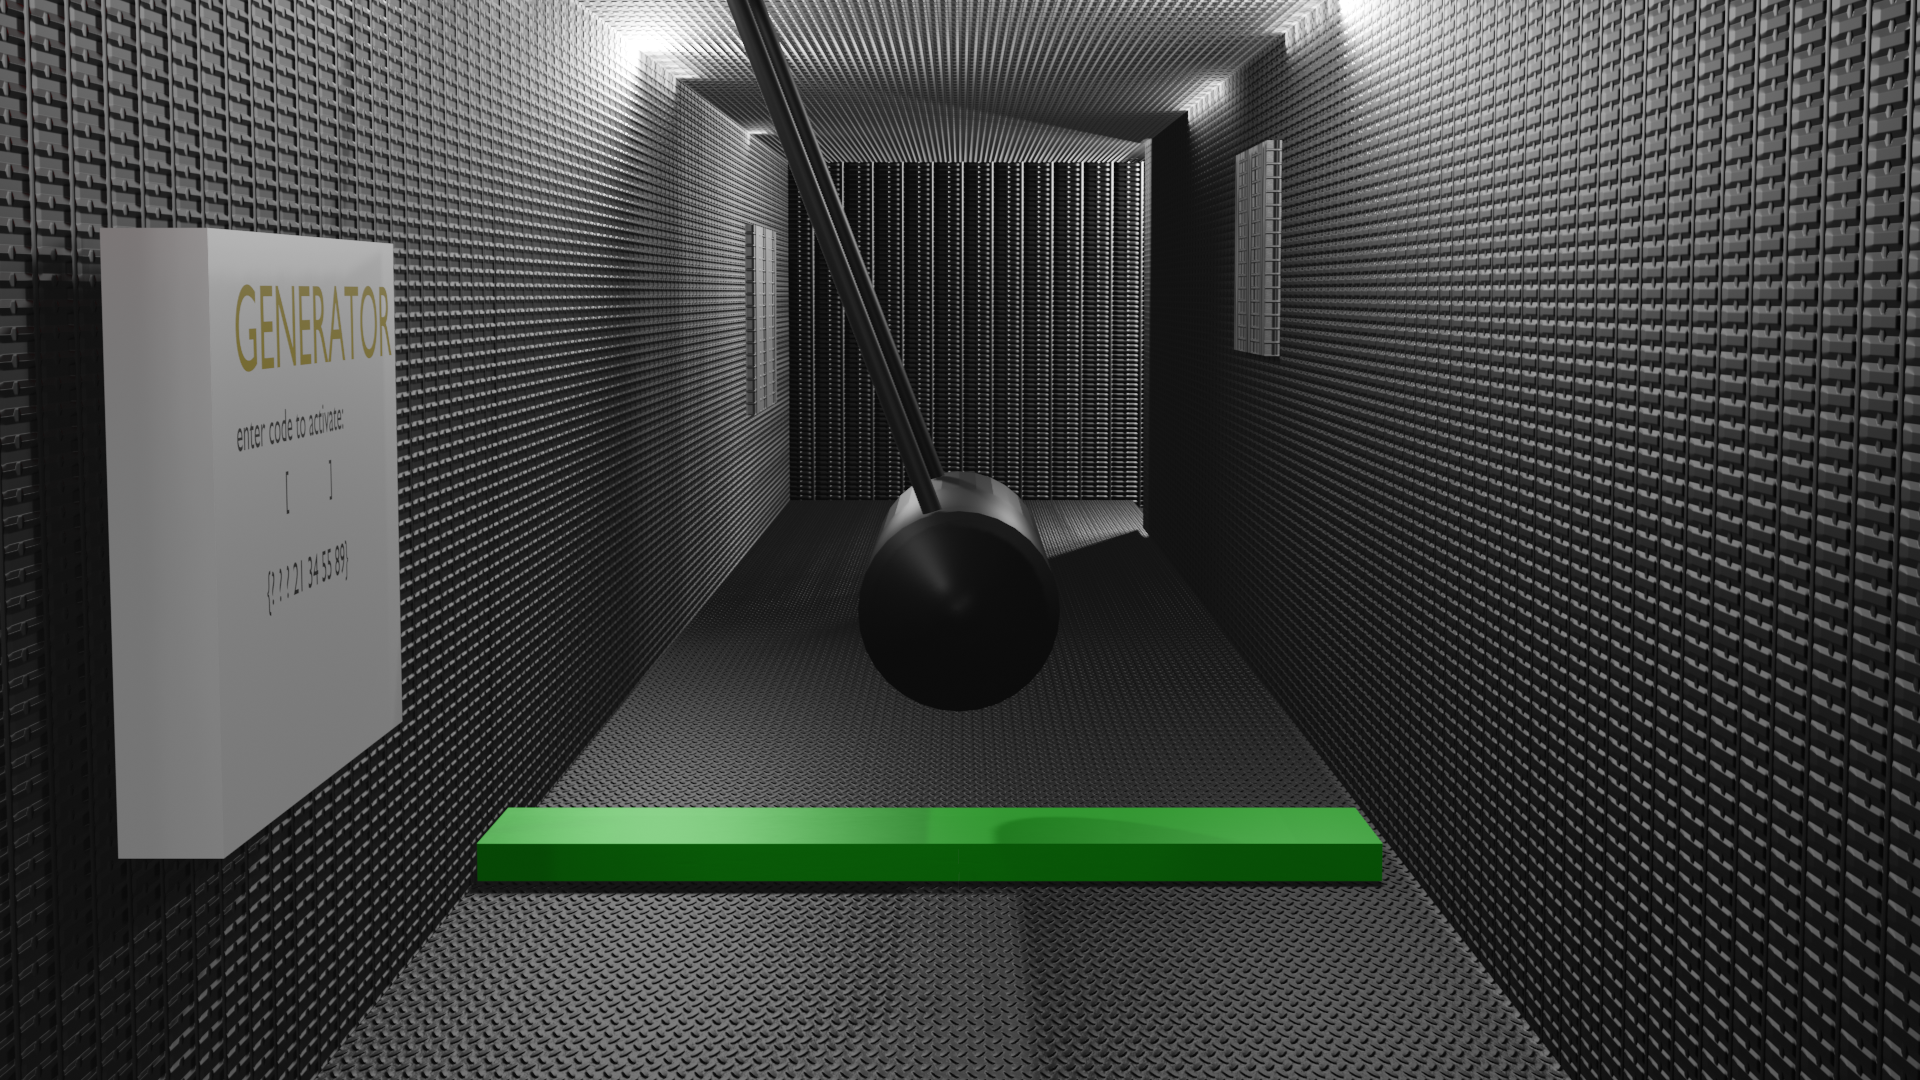
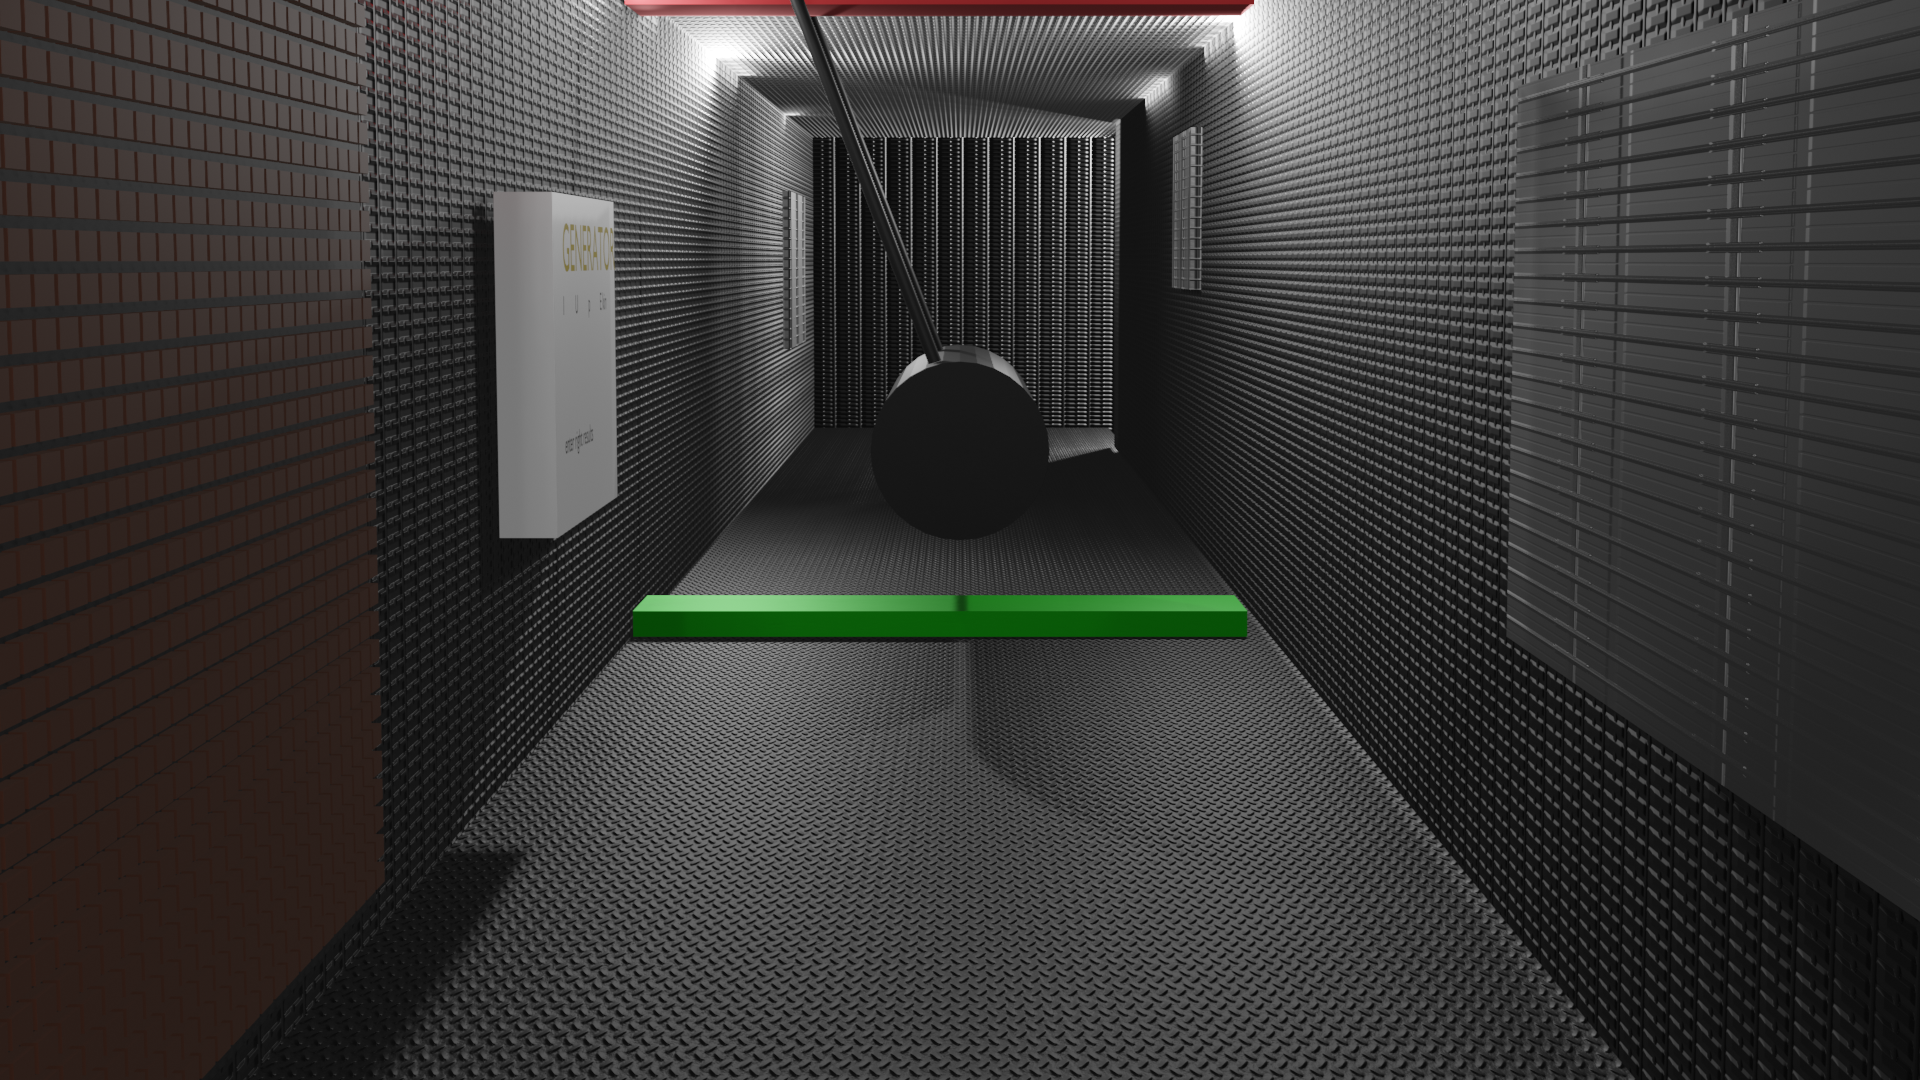
update images

diff --git a/index.js b/index.js
@@ -1,6 +1,6 @@
 // Constants
 
-let blinkTime = 5;
+let blinkTime = 1;
 
 let infoText = {
     cockpit: "Ihr befindet euch im Cockpit von Ikarus. Schaut euch um und findet das Benutzerhandbuch.",
@@ -13,6 +13,7 @@ let infoText = {
     gangBottle: "Oh Nein! Die Sauerstoffzufuhr im Raumschiff ist ausgefallen!",
     gangBottleClose: "Lest das Benutzerhandbuch und clickt auf die Sauerstoffflasche wenn ihr bereit seid. In der Flasche befindet sich zu Anfang 14 Bar an Sauerstoff. Ihr könnt 1 bis 3 Bar entlassen.",
     gangKiste: "Ihr habt nun wieder genug Sauerstoff zum Atmen und die Systeme sind auch wieder online. Ihr führt euren Weg fort, doch was ist das? Eine weitere Blockade versperrt euch den Weg. Dieses Mal handelt es sich um eine achtlos liegen gelasssene Kiste, die jedoch zu schwer ist, um bewegt zu werden. Gebt an wie viel Kraft ihr auf die Kiste ausüben könnt",
+    gangKisteWeg: "Die Kiste bewegt sich aus dem Weg",
     gangEngine: "Ihr habt überlebt! Repariert jetzt den Antrieb!",
     engine: "Sucht euch nach einem Schaltpanel um.",
     engineDetail: "Ihr seid am Schaltpanel. Gebt die richtige Spannung und Stromstärke an",
@@ -20,7 +21,7 @@ let infoText = {
     computer: "Ihr befindet euch jetzt im Computerraum. Gebt die richtigen Koordinaten ein. Ihr habt 3 Versuche."
 }
 
-let tippTimes = { cockpit: 2, cockpitPanel: 2, cockpitComputer: 2, cockpitDoor: 2, gangSchaukel: 2, gangGenerator: 2, gangEcke: 2, gangBottle: 2, gangBottleClose: 2, gangKiste: 2, gangEngine: 2, engine: 2, engineDetail: 2, engineThrust: 2, engineProblem: 2, engineGang: 2, computer: 2 }
+let tippTimes = { cockpit: 2, cockpitPanel: 2, cockpitComputer: 2, cockpitDoor: 2, gangSchaukel: 2, gangGenerator: 2, gangEcke: 2, gangBottle: 2, gangBottleClose: 2, gangKiste: 2, gangKisteWeg: 2, gangEngine: 2, engine: 2, engineDetail: 2, engineThrust: 2, engineProblem: 2, engineGang: 2, computer: 2 }
 
 let tipp = {
     cockpit: "Klickt auf den blinkenden Pfeil.",
@@ -34,6 +35,7 @@ let tipp = {
     gangBottleClose: "Enlasst beim ersten mal 1 Bar Sauerstoff.",
     gangKiste: "Tipp hier einfügen.",
     gangEngine: "Kickt auf die blinkende Tür.",
+    gangKisteWeg: "Klickt auf den blinkenden Pfeil.",
     engine: "Klickt auf das blinkende Panel.",
     engineDetail: "Tipp hier einfügen.",
     engineThrust: "Bewegt den Mauszeiger über den Schubhebel.",
@@ -107,7 +109,7 @@ function setCockpit() {
 function setCockpitPanel() {
     newScene("cockpitPanel");
 
-    setImage("cockpitPanelComputer", 7, 11, 50);
+    setImage("cockpitPanelComputer", 6, 10, 51.5);
     setClick("cockpitPanelComputer", setCockpitComputer);
 
     setBlink("cockpitPanelComputer");
@@ -116,10 +118,13 @@ function setCockpitPanel() {
 function setCockpitComputer() {
     newScene("cockpitComputer");
 
-    for (i = 1; i <= 3; i++) {
-        setImage("rc/b" + i, 6, 55, 11 * i);
-        setImage("rc/y" + i, 6, 48, 11 * i);
-    }
+    setImage("rc/b1", 6, 53, 12);
+    setImage("rc/b2", 6, 53, 25);
+    setImage("rc/y1", 6, 53, 38);
+
+    setImage("rc/y2", 6, 28, 46);
+    setImage("rc/b3", 6, 36, 46);
+    setImage("rc/y3", 6, 44, 46);
 
     setInput("cockpitComputerInput", 10, 3, 33, 16);
     setText("cockpitComputerText", "Enter Password", 10, 3, 33, 13);
@@ -132,7 +137,7 @@ function setCockpitDoor() {
 
     newScene("cockpitDoor");
 
-    setImage("cockpitDoorDoor", 15, 48, 11);
+    setImage("cockpitDoorDoor", 11, 53.5, 11);
     setClick("cockpitDoorDoor", setGangSchaukel);
 
     setBlink("cockpitDoorDoor");
@@ -141,7 +146,7 @@ function setCockpitDoor() {
 function setGangSchaukel() {
     newScene("gangSchaukel");
 
-    setImage("gangSchaukelGenerator", 17, 5, 20);
+    setImage("gangSchaukelGenerator", 6.3, 25.8, 17.8);
     setClick("gangSchaukelGenerator", setGangGenerator);
 
     setBlink("gangSchaukelGenerator");
@@ -152,9 +157,22 @@ function setGangSchaukel() {
 function setGangGenerator() {
     newScene("gangGenerator");
 
-    setInput("gangGeneratorInput", 20, 8, 31, 41);
+    setInput("gangGeneratorInputI", 5, 8, 31, 41);
+    setInput("gangGeneratorInputU", 5, 8, 37, 41);
+    setInput("gangGeneratorInputP", 5, 8, 43, 41);
+    setInput("gangGeneratorInputE", 5, 8, 49, 41);
 
-    setChange("gangGeneratorInput", checkGenerator);
+    setChange("gangGeneratorInputI", checkGenerator);
+    setChange("gangGeneratorInputU", checkGenerator);
+    setChange("gangGeneratorInputP", checkGenerator);
+    setChange("gangGeneratorInputE", checkGenerator);
+}
+
+function setGangSchaukelWeg() {
+    newScene("gangSchaukelWeg");
+
+    setImage("arrow", 7, 45, 60);
+    setClick("arrow", setGangEcke);
 }
 
 function setGangEcke() {
@@ -169,7 +187,7 @@ function setGangEcke() {
 function setGangBottle() {
     newScene("gangBottle");
 
-    setImage("gangBottleBottle", 7, 72, 36);
+    setImage("gangBottleBottle", 9.5, 66.2, 34.2);
     setClick("gangBottleBottle", setGangBottleClose);
 
     setBlink("gangBottleBottle");
@@ -178,9 +196,11 @@ function setGangBottle() {
 function setGangBottleClose() {
     newScene("gangBottleClose");
 
-    setImage("gangBottleCloseBottle", 13, 49, 18.5);
+    setImage("gangBottleCloseBottle", 17, 23.7, 31);
 
     setClick("gangBottleCloseBottle", startBottle);
+
+    setBlink("gangBottleCloseBottle");
 }
 
 function setGangKiste() {
@@ -190,10 +210,19 @@ function setGangKiste() {
     setChange("gangKisteInput", checkKiste);
 }
 
+function setGangKisteWeg() {
+    newScene("gangKisteWeg");
+
+    setImage("arrow", 7, 60, 60);
+    setClick("arrow", setGangEngine);
+
+    setBlink("arrow");
+}
+
 function setGangEngine() {
     newScene("gangEngine");
 
-    setImage("gangEngineDoor", 8.5, 49, 0.5);
+    setImage("gangEngineDoor", 8, 49, 12.1);
     setClick("gangEngineDoor", setEngine);
 
     setBlink("gangEngineDoor");
@@ -202,7 +231,7 @@ function setGangEngine() {
 function setEngine() {
     newScene("engine");
 
-    setImage("enginePanel", 30, 16, 27);
+    setImage("enginePanel", 29, 19.7, 18.6);
     setClick("enginePanel", setEngineDetail);
 
     setBlink("enginePanel");
@@ -211,8 +240,8 @@ function setEngine() {
 function setEngineDetail() {
     newScene("engineDetail");
 
-    setInput("engineDetailVolt", 7, 3, 16, 38, "volt");
-    setInput("engineDetailAmp", 7, 3, 28, 38, "amp");
+    setInput("engineDetailVolt", 7, 3, 12, 38, "volt");
+    setInput("engineDetailAmp", 7, 3, 21.5, 38, "amp");
 
     setChange("engineDetailVolt", checkEngine);
     setChange("engineDetailAmp", checkEngine);
@@ -223,10 +252,12 @@ function setEngineThrust() {
 
     setInfo("Es passiert....... nichts Vielleicht gehen die Ersatztriebwerke? Bewegt den Schubschalter");
 
-    setImage("engineHebel", 5, 76, 86);
+    setImage("engineHebel", 5, 68, 85.4);
 
     $(".engineHebel").on("mouseover", () => {
-        $(".engineHebel").css({ top: "83%" });
+        $(".engineHebel").css({ top: "78%" });
+        $(".engineHebel").css({ left: "67%" });
+
 
         $(".engineHebel").unbind();
 
@@ -239,17 +270,28 @@ function setEngineProblem() {
 
     setInfo("Das Raumschiff wackelt... Doch der Schub reicht nicht aus. Rechnet mit Hilfe des Benutzerhandbuches aus warum das nicht funktioniert hat.");
 
-    setInput("EngineProblemInput", 15, 3, 58, 30, " * * ");
+    setInput("EngineProblemInput", 15, 3, 51, 30, " * * ");
 
     setChange("EngineProblemInput", checkEngineProblem);
+}
+
+function setEngineDoor() {
+    $(".benutz").fadeIn();
+
+    newScene("engineDoor");
+
+    setImage("engineDoorDoor", 22, 12, 25.7);
+    setClick("engineDoorDoor", setComputer);
+
+    setBlink("engineDoorDoor");
 }
 
 function setComputer() {
     newScene("computer");
 
-    setInput("computerInput", 14, 4, 56, 15, " * ");
+    setInput("computerInput", 14, 4, 49.5, 15, " * ");
 
-    setButton("computerButton", "Enter", 8, 8, 72, 14);
+    setButton("computerButton", "Enter", 8, 8, 65, 14);
 
     setClick("computerButton", checkComputer);
 }
@@ -263,14 +305,36 @@ function checkCockpitComputer(name) {
 }
 
 function checkGenerator(name) {
-    if ($("." + name).val() == "5813") {
-        setGangEcke();
+    let correct = 0;
+
+    if ($(".gangGeneratorInputI").val() == "1") {
+        $(".gangGeneratorInputI").prop('disabled', true);
+        correct += 1;
+    }
+
+    if ($(".gangGeneratorInputU").val() == "2") {
+        $(".gangGeneratorInputU").prop('disabled', true);
+        correct += 1;
+    }
+
+    if ($(".gangGeneratorInputP").val() == "3") {
+        $(".gangGeneratorInputP").prop('disabled', true);
+        correct += 1;
+    }
+
+    if ($(".gangGeneratorInputE").val() == "4") {
+        $(".gangGeneratorInputE").prop('disabled', true);
+        correct += 1;
+    }
+
+    if (correct == 4) {
+        setGangSchaukelWeg();
     }
 }
 
 function checkKiste(name) {
     if ($("." + name).val() == "201") {
-        setGangEngine();
+        setGangKisteWeg();
     }
 }
 
@@ -294,7 +358,7 @@ function checkEngine(name) {
 
 function checkEngineProblem(name) {
     if ($("." + name).val() == "10") {
-        setComputer();
+        setEngineDoor();
     }
 }
 
@@ -386,6 +450,10 @@ function setImage(name, w, l, t) {
 // Other
 
 function startBottle() {
+    blink = "";
+    $(".gangBottleCloseBottle").stop();
+    $(".gangBottleCloseBottle").hide();
+
     let amount = prompt("Gebt ein wie viel Bar Sauerstoff ihr entlassen wollt");
 
     if (0 < amount && amount <= 3) {
@@ -395,8 +463,6 @@ function startBottle() {
 
         return;
     }
-
-    $(".gangBottleCloseBottle").fadeOut(0);
 
     setInfo("Es sind nun " + oxygen + " bar Sauerstoff in der Flasche. Wartet bis ihr wieder Sauerstoff entlassen könnt.");
 
@@ -416,6 +482,7 @@ function startBottle() {
             setInfo("Zum Glück findet ihr noch einen andere Sauerstofflasche, die mit dem selben Prinzip funktioniert.");
 
             $(".gangBottleCloseBottle").fadeIn(3000);
+            blink = "gangBottleCloseBottle";
             setClick("gangBottleCloseBottle", startBottle);
 
             clearInterval(interval);
@@ -438,7 +505,7 @@ function startBottle() {
         clearInterval(leakDelay);
 
         $(".gangBottleCloseBottle").fadeIn(0);
-
+        blink = "gangBottleCloseBottle";
         setClick("gangBottleCloseBottle", startBottle);
     }, 2000);
 }
@@ -456,7 +523,7 @@ function setWon() {
 // Start
 
 $(document).ready(function () {
-    setCockpit();
+    setGangBottleClose();
 });
 
 // Functions
